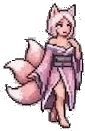
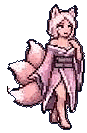
夥伴角色強化（1/12）：九尾狐
- 新增 tools/pixel_polish.py：從原圖重做像素角色
  - 剝掉當初從總覽圖切下來時帶進來的灰邊和背景殘渣（外圈中性灰一層層剝，白毛、衣服、原描邊保留）
  - 輕微銳利化、提高彩度和對比，減成 96 色，讓像素邊界清楚
  - 身體加 1px 墨線外框（#1B1E3C，跟 App 的粗墨線風格一致）；飄在旁邊的特效（狐火、花瓣）不加框
  - 原圖第一次會收進 tools/characters_orig/，之後都從原圖重做；同時更新 manifest 的寬高
- 套用到九尾狐 5 個階段

Claude-Session: https://claude.ai/code/session_016wQJDqNmeMZi3CzSXZ7hYD

Changed region(s): [[0.0, 0.0, 1.0, 1.0], [0.4471, 0.2137, 0.4706, 0.2443], [0.2588, 0.5191, 0.2824, 0.5496]]

diff --git a/tools/pixel_polish.py b/tools/pixel_polish.py
@@ -1,0 +1,80 @@
+"""像素角色整理 v3：剝掉切圖時帶進來的灰邊 → 銳利化、提色 → 減色 → 身體加 1px 墨線（飄在旁邊的特效不加）。"""
+from PIL import Image, ImageFilter, ImageEnhance
+import numpy as np
+from scipy import ndimage
+
+INK = (27, 30, 60)
+CROSS = np.array([[0, 1, 0], [1, 1, 1], [0, 1, 0]])
+
+
+def peel_grey(a, mask, passes=8):
+    """外圈的中性灰（切圖殘渣）一層一層剝掉；很亮的白（毛、衣服）和很暗的原描邊保留。"""
+    rgb = a[..., :3].astype(int)
+    spread = rgb.max(-1) - rgb.min(-1)
+    val = rgb.max(-1)
+    greyish = (spread < 24) & (val > 140) & (val < 232) | (spread < 14) & (val > 70) & (val <= 140)
+    for _ in range(passes):
+        rim = mask & ~ndimage.binary_erosion(mask, CROSS)
+        kill = rim & greyish
+        if not kill.any():
+            break
+        mask = mask & ~kill
+    return mask
+
+
+def polish(path, colors=96, sat=1.12, contrast=1.06):
+    im = Image.open(path).convert("RGBA")
+    a = np.array(im)
+    mask = a[..., 3] > 0
+    mask = peel_grey(a, mask)
+    lab, n = ndimage.label(mask)
+    if n:
+        sizes = ndimage.sum(mask, lab, range(1, n + 1))
+        for i, s in enumerate(sizes, 1):
+            if s < 8:
+                mask[lab == i] = False
+        lab, n = ndimage.label(mask)
+    sizes = ndimage.sum(mask, lab, range(1, n + 1)) if n else []
+    big = max(sizes) if n else 0
+    body = np.zeros_like(mask)
+    for i, s in enumerate(sizes, 1):
+        if s >= big * 0.12:
+            body |= lab == i
+    img = Image.fromarray(a[..., :3], "RGB").filter(ImageFilter.UnsharpMask(radius=1.0, percent=60, threshold=2))
+    img = ImageEnhance.Contrast(ImageEnhance.Color(img).enhance(sat)).enhance(contrast)
+    arr = np.array(img)
+    fill = arr[mask]
+    arr[~mask] = np.median(fill, axis=0).astype(np.uint8) if len(fill) else 0
+    q = np.array(Image.fromarray(arr).quantize(colors=colors, method=Image.Quantize.FASTOCTREE, dither=Image.Dither.NONE).convert("RGB"))
+    out = np.dstack([q, np.where(mask, 255, 0).astype(np.uint8)])
+    H, W = mask.shape
+    pad = np.zeros((H + 2, W + 2, 4), np.uint8)
+    pad[1:-1, 1:-1] = out
+    b2 = np.zeros((H + 2, W + 2), bool); b2[1:-1, 1:-1] = body
+    m2 = np.zeros((H + 2, W + 2), bool); m2[1:-1, 1:-1] = mask
+    edge = ndimage.binary_dilation(b2, CROSS) & ~m2
+    pad[edge] = (*INK, 255)
+    return Image.fromarray(pad)
+
+
+# ───────── 指令列：python tools/pixel_polish.py fox_spirit [golem …] ─────────
+if __name__ == "__main__":
+    import json, shutil, sys
+    from pathlib import Path
+
+    root = Path(__file__).resolve().parent.parent
+    chars = root / "web" / "characters"
+    orig = root / "tools" / "characters_orig"
+    manifest = json.loads((chars / "manifest.json").read_text(encoding="utf-8"))
+    for sp in sys.argv[1:]:
+        (orig / sp).mkdir(parents=True, exist_ok=True)
+        entry = next(s for s in manifest["species"] if s["id"] == sp)
+        for i, st in enumerate(entry["stages"], 1):
+            src_png = orig / sp / f"{i}.png"
+            if not src_png.exists():                       # 第一次：先把原圖收好，之後都從原圖重做
+                shutil.copy2(chars / sp / f"{i}.png", src_png)
+            out = polish(src_png)
+            out.save(chars / sp / f"{i}.png", optimize=True)
+            st["w"], st["h"] = out.width, out.height
+        print(f"{sp}: 完成 {len(entry['stages'])} 張")
+    (chars / "manifest.json").write_text(json.dumps(manifest, ensure_ascii=False, indent=1), encoding="utf-8")
